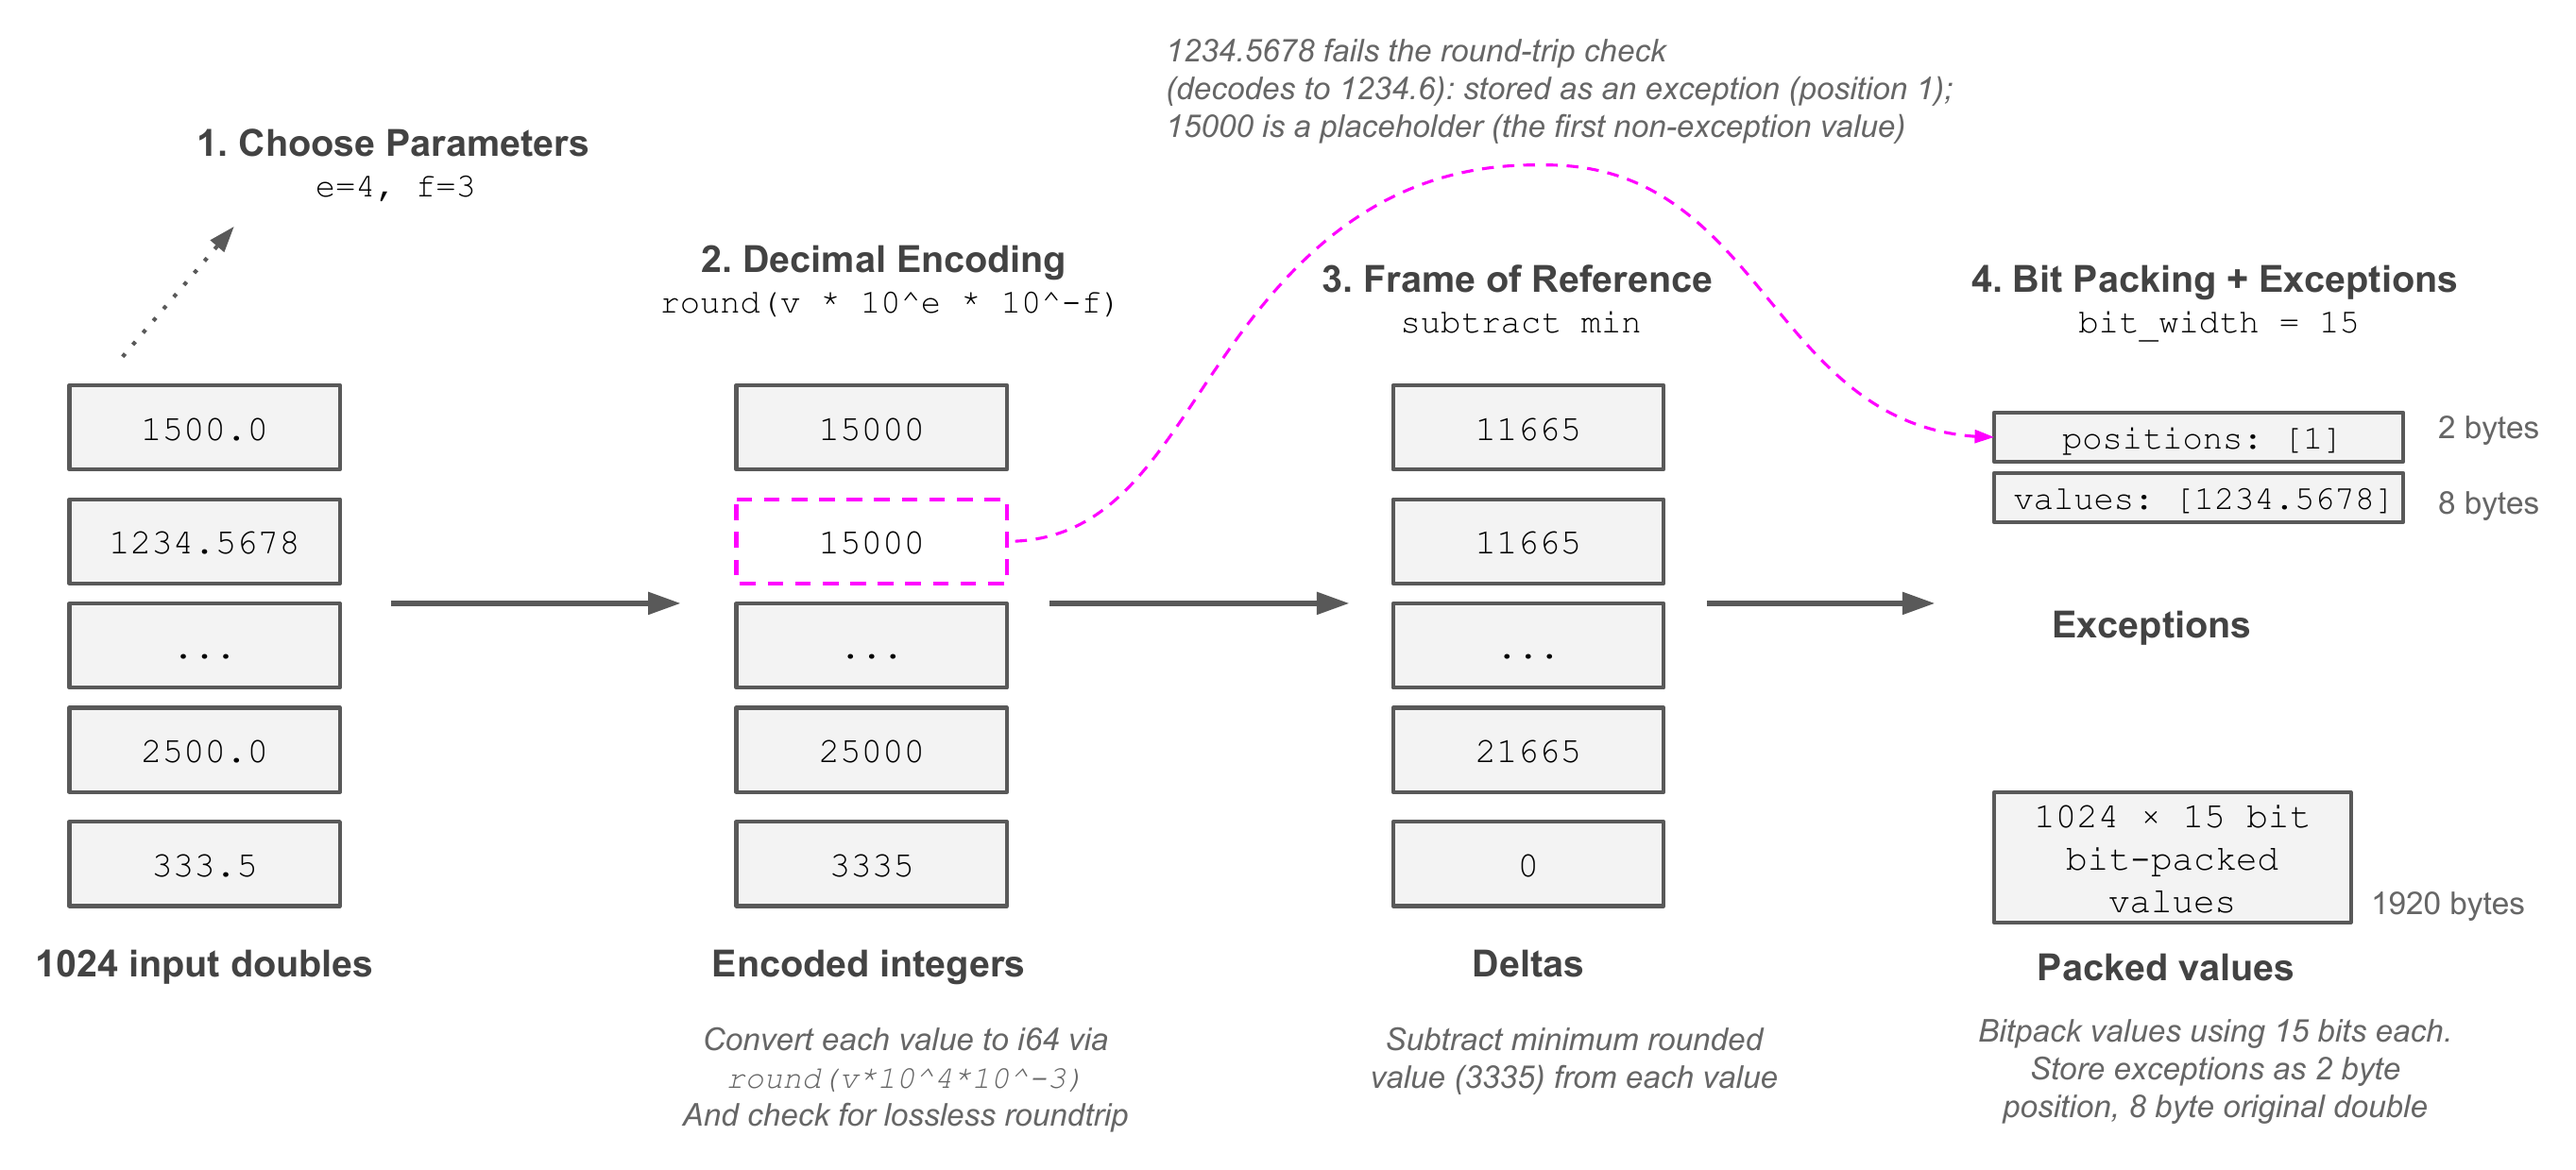
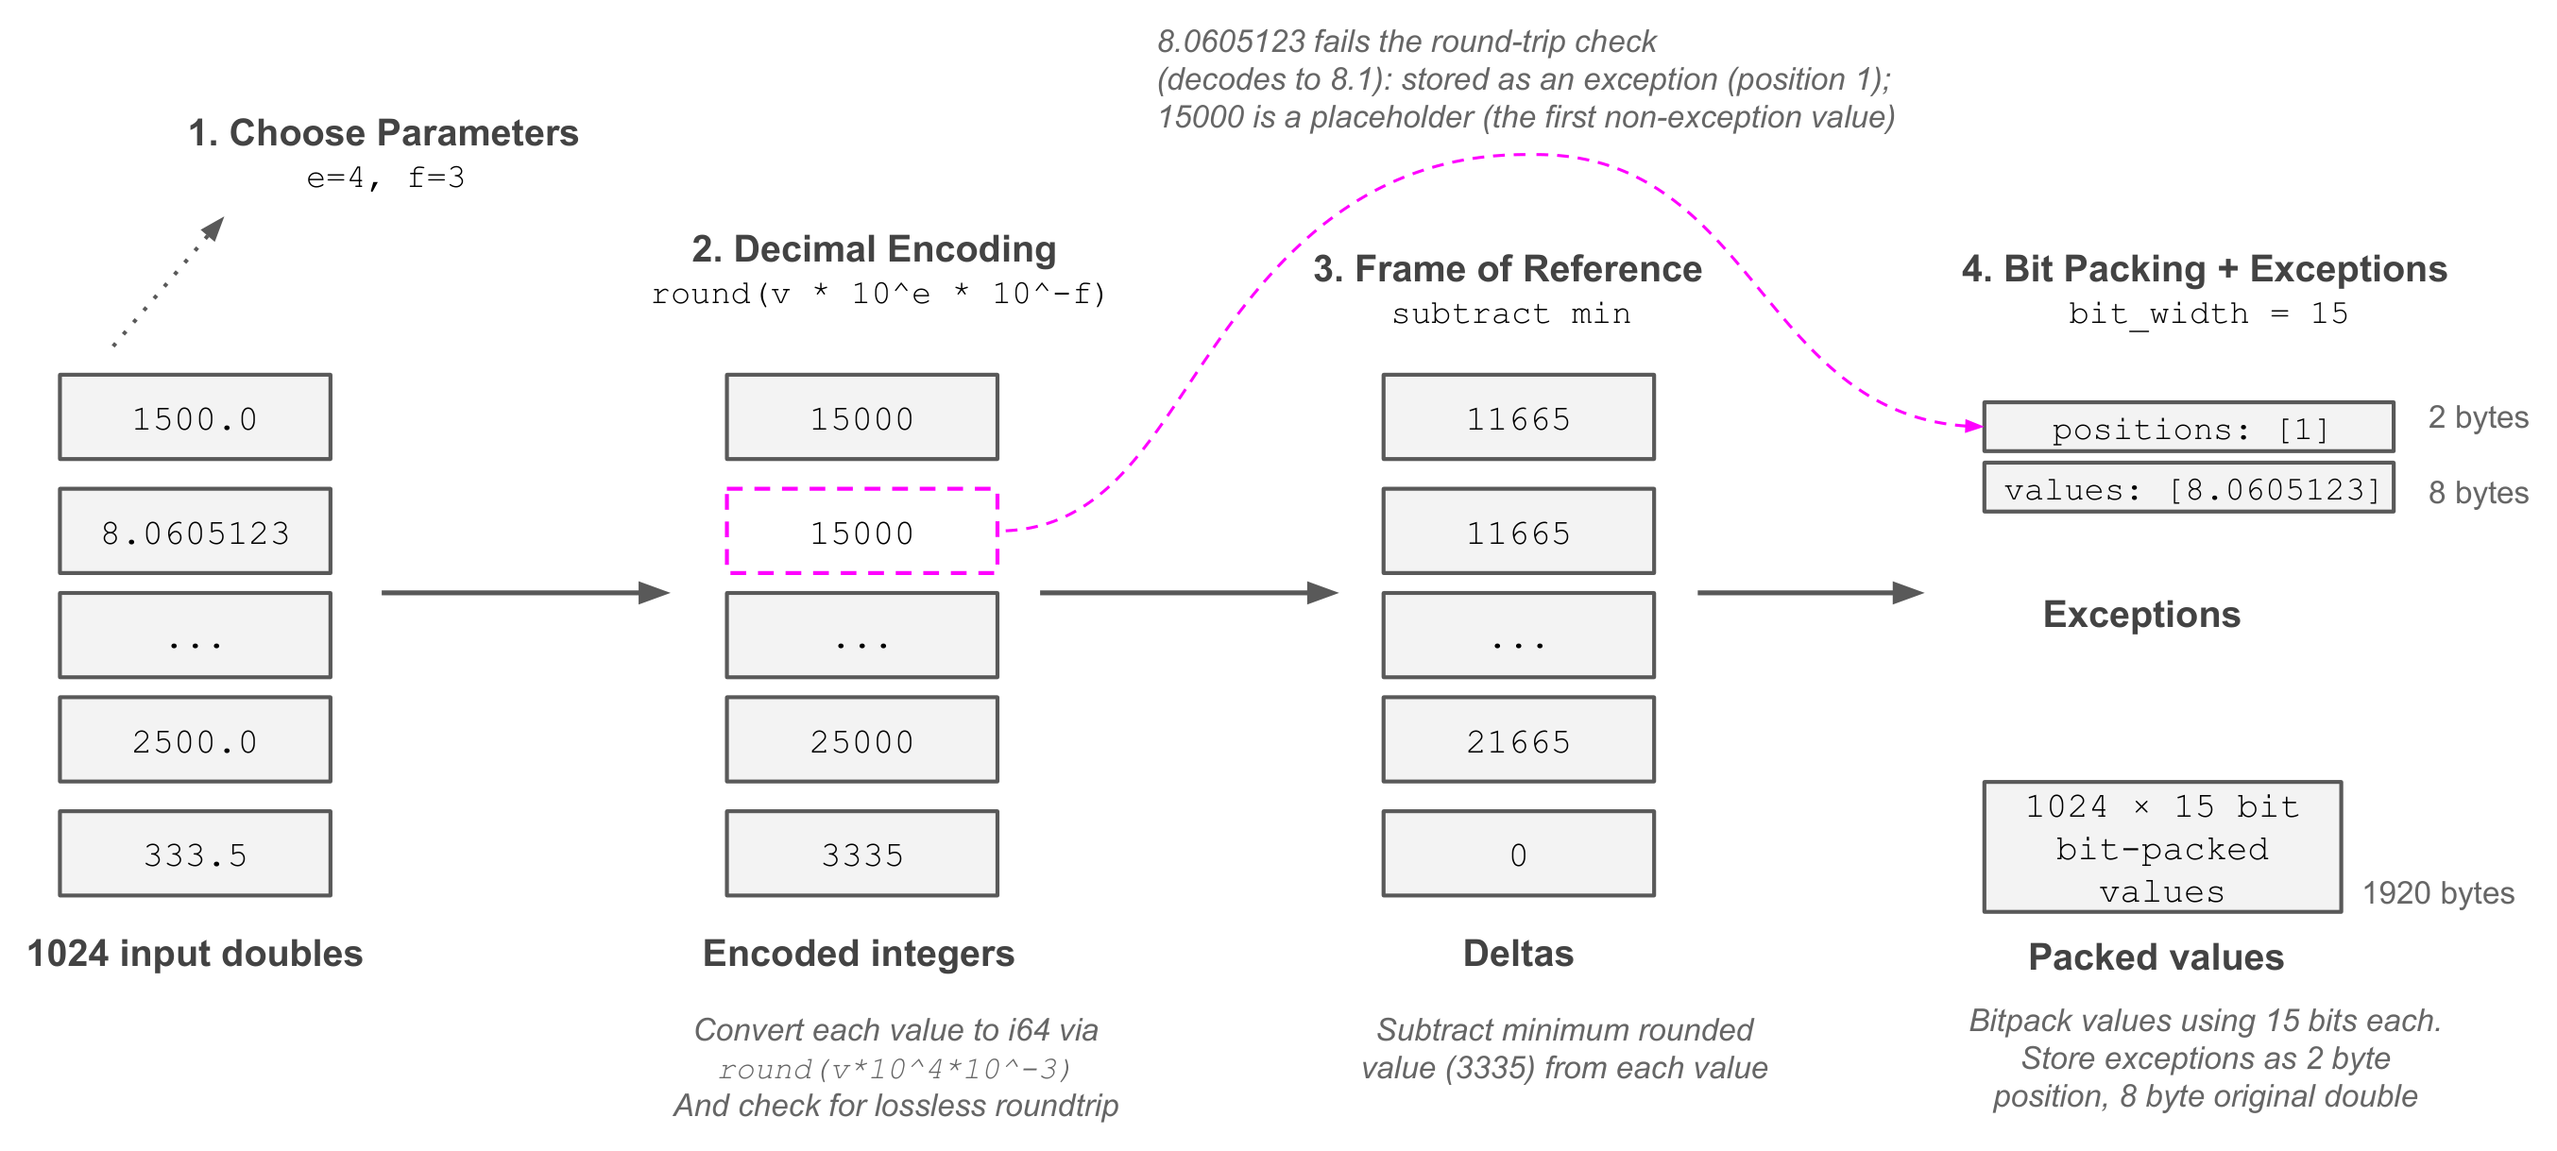
Update examples diagrams

diff --git a/content/en/blog/features/alp_encoding.md b/content/en/blog/features/alp_encoding.md
@@ -226,8 +226,8 @@ To encode this vector, first the parameters <code>e = 4</code> and <code>f =
 3</code> are chosen. Then the values are transformed to integers using the
 formula <code>encoded = round(value × 10<sup>4</sup> × 10<sup>-3</sup>)</code>. Each integer is
 checked by reversing the transformation with <code>decoded = encoded × 10<sup>3</sup> × 10<sup>-4</sup></code>. Values
-that do not reproduce the original value, such as `1234.5678` (which decodes to
-`1234.6`), are stored in the
+that do not reproduce the original value, such as `8.0605123` (which decodes to
+`8.1`), are stored in the
 exception array. The minimum value across the vector, `3335`, becomes the frame
 of reference and is subtracted from each integer, and the resulting deltas are bit-packed using `15` bits.
 In this example, ALP uses `1920` bytes for the bit-packed deltas, plus a
